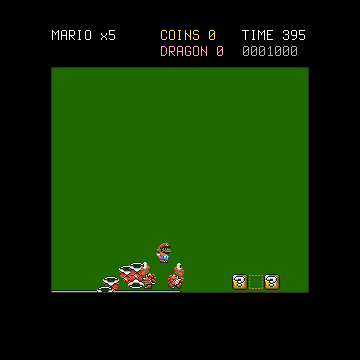
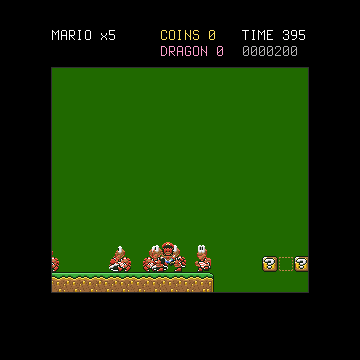
smw: sprites as SPRITES zones with BOXES, zspr and bmlib hits and tiles
Claude-Session: https://claude.ai/code/session_01819Cst5YoYQmWbqZtMgsvj

Changed region(s): [[0.1222, 0.6722, 0.6111, 0.825], [0.6417, 0.7028, 0.8556, 0.825], [0.7333, 0.1222, 0.7944, 0.1528]]

diff --git a/carts/smw/build/build.py b/carts/smw/build/build.py
@@ -7,6 +7,8 @@ Defaults: carts/smw/extracted and build/smw. SMW_START=x,y starts Mario elsewher
 flags, joins physics.lua and game.lua into main.lua and calls mkbm.py for the .b16 and the
 .bme. The output holds assets from the player's ROM: it stays on the player's machine."""
 import json, os, subprocess, sys
+sys.path.insert(0, os.path.dirname(os.path.abspath(__file__)))
+from sprites import pack_zones
 ROOT = os.path.dirname(os.path.dirname(os.path.dirname(os.path.dirname(os.path.abspath(__file__)))))
 
 
@@ -30,81 +32,6 @@ def backdrop(ex):
     c = Counter(im.getpixel((x, y)) for x in range(0, 256, 2) for y in range(40, 120, 2))
     r, g, b = c.most_common(1)[0][0]
     return (r << 16) | (g << 8) | b
-
-
-def pack_poses(ex, tiles_png, out_png, restyle=None):
-    """Appends Mario's poses (scripts/smw_sprites.py) under the tile cells, 32x32 each, facing right.
-    Returns the Lua table POSES = {[pose] = {sx, sy, w, h, ox, oy}} (ox, oy from Mario's x, y)."""
-    from PIL import Image
-    sheet = Image.open(tiles_png).convert("RGBA")
-    meta = json.load(open(ex + "/mario/poses.json"))
-    ids = sorted({m["pose"] for m in meta.values()})
-    en_meta = json.load(open(ex + "/enemies/pics.json")) if os.path.exists(ex + "/enemies/pics.json") else {}
-    en_names = sorted(k for k, v in en_meta.items() if v["w"] <= 40 and v["h"] <= 40 and v["id"] == 5)
-    tape_json = ex + "/goal/goal.json"
-    it_meta = json.load(open(ex + "/items.json")) if os.path.exists(ex + "/items.json") else {}
-    it_names = sorted(k for k in it_meta if k.startswith("126_"))      # the egg and Yoshi of the 0x126 block
-    rows = (len(ids) + 3) // 4 + (len(en_names) + 3) // 4 + (1 if os.path.exists(tape_json) else 0) + (len(it_names) + 3) // 4
-    big = Image.new("RGBA", (sheet.width, sheet.height + rows * 32), (0, 0, 0, 0))
-    big.paste(sheet, (0, 0))
-    lines = []
-    for i, pose in enumerate(ids):
-        m = meta.get("%02X_1" % pose)
-        mirror = m is None
-        if mirror:
-            m = meta["%02X_0" % pose]
-        im = Image.open(ex + "/mario/" + m["file"]).convert("RGBA")
-        ox = m["ox"]
-        if mirror:
-            im = im.transpose(Image.FLIP_LEFT_RIGHT)
-            ox = 16 - m["ox"] - m["w"]
-        if restyle:
-            im = restyle(im)
-        sx, sy = (i % 4) * 32, sheet.height + (i // 4) * 32
-        big.paste(im, (sx, sy))
-        lines.append("  [%d] = { %d, %d, %d, %d, %d, %d }," % (pose, sx, sy, m["w"], m["h"], ox, m["oy"]))
-    base_row = (len(ids) + 3) // 4
-    en_lines = []
-    for i, name in enumerate(en_names):
-        m = en_meta[name]
-        im = Image.open(ex + "/enemies/" + m["file"]).convert("RGBA")
-        if restyle:
-            im = restyle(im)
-        sx, sy = (i % 4) * 32, sheet.height + (base_row + i // 4) * 32
-        big.paste(im, (sx, sy))
-        en_lines.append("  ['%s'] = { %d, %d, %d, %d, %d, %d }," % (name, sx, sy, m["w"], m["h"], m["ox"], m["oy"]))
-    tape_lua = "local TAPE = nil\n"
-    if os.path.exists(tape_json):
-        t = json.load(open(tape_json))
-        im = Image.open(ex + "/goal/tape.png").convert("RGBA")
-        if restyle:
-            im = restyle(im)
-        sx, sy = 0, sheet.height + (base_row + (len(en_names) + 3) // 4) * 32
-        big.paste(im, (sx, sy))
-        tape_lua = "local TAPE = { %d, %d, %d, %d, %d, %d, %d }   -- sx, sy, w, h, ox, oy, level x\n" % (
-            sx, sy, t["w"], t["h"], t["ox"], t["oy"], t["x"])
-    it_lines = []
-    it_row = base_row + (len(en_names) + 3) // 4 + (1 if os.path.exists(tape_json) else 0)
-    for i, name in enumerate(it_names):
-        m = it_meta[name]
-        im = Image.open(ex + "/item_%s.png" % name).convert("RGBA")
-        if restyle:
-            im = restyle(im)
-        sx, sy = (i % 4) * 32, sheet.height + (it_row + i // 4) * 32
-        big.paste(im, (sx, sy))
-        it_lines.append("  ['%s'] = { %d, %d, %d, %d, %d, %d }," % (name, sx, sy, m["w"], m["h"], m["ox"], m["oy"]))
-    spawns = json.load(open(ex + "/spawns.json")) if os.path.exists(ex + "/spawns.json") else []
-    seen, sp = set(), []
-    for s in spawns:
-        if s["id"] == 5 and (s["x"], s["y"]) not in seen:
-            seen.add((s["x"], s["y"]))
-            sp.append("  { %d, %d, %d, %d }," % (s["x"], s["y"], s["face"], 1 if s["status"] == 9 else 0))
-    big.save(out_png)
-    return ("local POSES = {\n" + "\n".join(lines) + "\n}\n"
-            "local ENEMY = {\n" + "\n".join(en_lines) + "\n}\n"
-            + tape_lua +
-            "local ITEM = {\n" + "\n".join(it_lines) + "\n}\n"
-            "local KOOPAS = {   -- x, y, face (1 left, 0 right), starts as a shell\n" + "\n".join(sp) + "\n}\n")
 
 
 def block_data(defs, level):
@@ -144,13 +71,13 @@ def main():
         open(out + "/" + name, "w").write("\n".join(",".join(map(str, r)) for r in rows) + "\n")
     open(out + "/flags.csv", "w").write("%d=1\n%d=2\n" % (col, col + 1))
     sheet_png = out + "/sheet.png"
-    poses_lua = pack_poses(ex, ex + "/sheet.png", sheet_png)
+    poses_lua = pack_zones(ex, ex + "/sheet.png", sheet_png, out + "/sprites.txt")
     lua = poses_lua + block_data(defs, level) + open(ROOT + "/carts/smw/src/physics.lua").read() + "\n" + open(ROOT + "/carts/smw/src/game.lua").read()
     lua = lua.replace("local backdrop = 0xFF0000", "local backdrop = 0x%06X" % backdrop(ex))
     if os.environ.get("SMW_START"):         # a test start, "x,y": the shots of a block or an enemy without the walk
         lua = lua.replace("local START_X, START_Y = 16, 352", "local START_X, START_Y = " + os.environ["SMW_START"])
     open(out + "/main.lua", "w").write(lua)
-    base = [sys.executable, ROOT + "/scripts/mkbm.py", "--lua", out + "/main.lua", "--sheet", sheet_png,
+    base = [sys.executable, ROOT + "/scripts/mkbm.py", "--lua", out + "/main.lua", "--sheet", sheet_png, "--sprites", out + "/sprites.txt",
             "--map", out + "/map_main.csv", "--map", "col=" + out + "/map_col.csv", "--flags", out + "/flags.csv",
             "--info", ROOT + "/carts/smw/bm.info", "--targets", "rgb30", "--input", "pad"]
     subprocess.run(base + ["-o", out + "/smw.b16", "--b16"], check=True)

diff --git a/carts/smw/build/sprites.py b/carts/smw/build/sprites.py
@@ -1,0 +1,96 @@
+"""The sprites of the Super Mario World cartridge as bm SPRITES zones with BOXES.
+
+pack_zones() puts the pictures captured from the player's ROM (scripts/smw_sprites.py, smw_enemies.py,
+smw_items.py, smw_goal.py) under the tile cells of the sheet, one named zone per animation: the frames
+side by side as the suite wants them (zspr, zboxes, bm Pixel). It writes the zones file for
+mkbm.py --sprites and returns the Lua text with the anchors and the places of the Koopas.
+
+A zone is a rectangle; the game draws it with zspr(name, x, y, frame, flip) where (x, y) is the
+rectangle's corner. The suite has no anchors, so each zone gets the offset ZA[name] = {dx, dy}: draw at
+(sprite x + dx, sprite y + dy). The picture sits inside its rectangle so that a mirrored zone is mirrored
+about the sprite (Mario's rectangle is 32 wide with his 16-pixel body in the middle).
+
+Boxes (kind frame x y w h, from the rectangle's corner): Mario has hurt (his body), box 3 (his
+feet: he stomps with them), box 4 (his body, to kick a shell). A Koopa has hurt (its head: it can be
+stomped there) and hit (its body); a sliding shell has both."""
+import json, os
+
+MARIO = [("mario_stand", [0x00]), ("mario_walk", [0x00, 0x01]), ("mario_look", [0x03]), ("mario_prun", [0x07, 0x08]),
+         ("mario_jump", [0x0B]), ("mario_pjump", [0x0C]), ("mario_skid", [0x0D]), ("mario_fall", [0x24]),
+         ("mario_duck", [0x3C]), ("mario_spin", [0x25, 0x00, 0x0F, 0x00]), ("mario_dead", [0x3E])]
+KOOPA = [("koopa_l", ["05_8_42ad5a82", "05_8_04c81fb9"]), ("koopa_r", ["05_8_2f5730ba", "05_8_c999e5e3"]),
+         ("koopa_turn", ["05_8_5225aa56"]), ("shell", ["05_9_d229f1b8"]), ("shell_slide", ["05_9_d229f1b8"])]
+EGG = ["126_2C_79cad8", "126_2C_c7a607", "126_2C_1c9ca6"]
+YOSHI = ["126_35_1c9ca6", "126_35_017398", "126_35_d3ea17", "126_35_0e92a7"]
+
+
+def pack_zones(ex, tiles_png, out_png, out_txt, restyle=None):
+    from PIL import Image
+    sheet = Image.open(tiles_png).convert("RGBA")
+    zones = []          # name, w, h, [images with their place in the rectangle], anchor, boxes
+
+    meta = json.load(open(ex + "/mario/poses.json"))
+    for name, poses in MARIO:
+        frames = []
+        for pose in poses:
+            m = meta.get("%02X_1" % pose)
+            mirror = m is None
+            if mirror:
+                m = meta["%02X_0" % pose]
+            im = Image.open(ex + "/mario/" + m["file"]).convert("RGBA")
+            ox = m["ox"]
+            if mirror:
+                im = im.transpose(Image.FLIP_LEFT_RIGHT)
+                ox = 16 - m["ox"] - m["w"]
+            frames.append((im, ox + 8, m["oy"] + 8))
+        zones.append((name, 32, 48, frames, (-8, -8),
+                      ["hurt * 10 24 12 16", "box 3 * 10 36 12 4", "box 4 * 10 24 12 16"]))
+
+    en = json.load(open(ex + "/enemies/pics.json"))
+    for name, pics in KOOPA:
+        frames = [(Image.open(ex + "/enemies/" + en[p]["file"]).convert("RGBA"), en[p]["ox"], en[p]["oy"] + 16) for p in pics]
+        if name == "shell":
+            boxes = ["hurt * 0 16 16 16"]
+        elif name == "shell_slide":
+            boxes = ["hurt * 0 16 16 16", "hit * 0 16 16 16"]
+        else:
+            boxes = ["hurt * 0 16 16 10", "hit * 0 16 16 16"]
+        zones.append((name, 16, 32, frames, (0, -16), boxes))
+
+    items = json.load(open(ex + "/items.json"))
+    for name, pics in (("egg", EGG), ("yoshi", YOSHI)):
+        frames = [(Image.open(ex + "/item_%s.png" % p).convert("RGBA"), items[p]["ox"], items[p]["oy"]) for p in pics]
+        zones.append((name, 32, 32, frames, (0, 0), []))
+
+    tape = json.load(open(ex + "/goal/goal.json"))
+    zones.append(("tape", tape["w"], tape["h"], [(Image.open(ex + "/goal/tape.png").convert("RGBA"), 0, 0)],
+                  (tape["ox"], tape["oy"]), []))
+
+    height = sheet.height + sum(z[2] for z in zones)
+    big = Image.new("RGBA", (sheet.width, height), (0, 0, 0, 0))
+    big.paste(sheet, (0, 0))
+    txt, anchors = [], []
+    y = sheet.height
+    for name, w, h, frames, anchor, boxes in zones:
+        assert w * len(frames) <= sheet.width, name
+        for i, (im, px, py) in enumerate(frames):
+            assert 0 <= px and px + im.width <= w and 0 <= py and py + im.height <= h, (name, px, py, im.size)
+            if restyle:
+                im = restyle(im)
+            big.paste(im, (i * w + px, y + py))
+        txt.append("%s 0 %d %d %d %d %d" % (name, y, w, h, len(frames), 8 if len(frames) > 1 else 1))
+        txt += ["  " + b for b in boxes]
+        anchors.append("  %s = { %d, %d }," % (name, anchor[0], anchor[1]))
+        y += h
+    big.save(out_png)
+    open(out_txt, "w").write("\n".join(txt) + "\n")
+
+    spawns = json.load(open(ex + "/spawns.json")) if os.path.exists(ex + "/spawns.json") else []
+    seen, sp = set(), []
+    for s in spawns:
+        if s["id"] == 5 and (s["x"], s["y"]) not in seen:
+            seen.add((s["x"], s["y"]))
+            sp.append("  { %d, %d, %d, %d }," % (s["x"], s["y"], s["face"], 1 if s["status"] == 9 else 0))
+    return ("local ZA = {   -- the corner of each zone from the sprite's x, y (the suite has no anchors)\n" + "\n".join(anchors) + "\n}\n"
+            "local TAPE_X = %d\n" % tape["x"] +
+            "local KOOPAS = {   -- x, y, face (1 left, 0 right), starts as a shell\n" + "\n".join(sp) + "\n}\n")

diff --git a/carts/smw/guide/build.py b/carts/smw/guide/build.py
@@ -140,11 +140,11 @@ def main():
     for name, rows in (("map_main.csv", main_rows), ("map_col.csv", col_rows)):
         open(out + "/" + name, "w").write("\n".join(",".join(map(str, r)) for r in rows) + "\n")
     open(out + "/flags.csv", "w").write("%d=1\n%d=2\n" % (col_n, col_n + 1))
-    poses_lua = real.pack_poses(ex, out + "/tiles.png", out + "/sheet.png", restyle=restyle)
+    poses_lua = real.pack_zones(ex, out + "/tiles.png", out + "/sheet.png", out + "/sprites.txt", restyle=restyle)
     lua = poses_lua + real.block_data(defs_new, level) + open(ROOT + "/carts/smw/src/physics.lua").read() + "\n" + open(ROOT + "/carts/smw/src/game.lua").read()
     lua = lua.replace("local backdrop = 0xFF0000", "local backdrop = 0x%06X" % real.backdrop(ex))
     open(out + "/main.lua", "w").write(lua)
-    base = [sys.executable, ROOT + "/scripts/mkbm.py", "--lua", out + "/main.lua", "--sheet", out + "/sheet.png",
+    base = [sys.executable, ROOT + "/scripts/mkbm.py", "--lua", out + "/main.lua", "--sheet", out + "/sheet.png", "--sprites", out + "/sprites.txt",
             "--map", out + "/map_main.csv", "--map", "col=" + out + "/map_col.csv", "--flags", out + "/flags.csv",
             "--info", ROOT + "/carts/smw/bm.info", "--title", "SMW Guide Edition", "--targets", "rgb30", "--input", "pad"]
     subprocess.run(base + ["-o", out + "/guide.b16", "--b16"], check=True)

diff --git a/docs/progress/smw.md b/docs/progress/smw.md
@@ -28,12 +28,20 @@ the finished cartridge stay on the user's machine and SD card.
 - `scripts/smw_items.py`: bumps a block kind and records the sprites that appear. 0x126 gives an egg
   (sprite 0x2C, 58 ticks) that hatches into Yoshi (0x35); 0x11A gives a growing vine (0x79).
 - `scripts/smw_solid.py`: tests every Map16 number for solidity from above, the side, and below.
+- `carts/smw/build/sprites.py`: puts the captured pictures under the tile cells as 19 named zones
+  (`mario_walk`, `koopa_l`, `shell_slide`, `egg`, `yoshi`, `tape`, ...) with their boxes. `bmres.py info`
+  lists them. Mario's boxes: `hurt` (body), kind 3 (feet, he stomps), kind 4 (body, he kicks). A Koopa:
+  `hurt` (head), `hit` (body). The Lua gets the offset of each zone from `ZA` (the suite has no anchors).
 - `carts/smw/src/physics.lua`: movement at 50 Hz ticks. `scripts/smw_physics_check.py`
   scores it against the traces in `bmhost`. First jump: error under 3 pixels.
 - `carts/smw/src/game.lua` and `carts/smw/build/build.py`: the playable level, 360x360 `.b16`
   and `.bme` for the RGB30. Output goes to `build/smw/` (ignored by git).
 
 ## Rules (do not break)
+
+- Keep the sprites as SPRITES zones with BOXES (`carts/smw/build/sprites.py`). Draw them with `zspr`, read
+  the boxes with `zboxes`, and decide hits with `lib.hits`. Do not draw by pixel coordinates in Lua.
+- Keep the map as layers with flags (1 solid, 2 platform): `main` is drawn, `col` is read by `lib.tiles`.
 
 - Keep the ROM, `*.sfc`, `*.smc`, and `carts/smw/{rom,extracted}/` out of git.
 - Do not upload the cartridge to the Market. Do not put Nintendo assets in the repository.
@@ -60,6 +68,9 @@ the finished cartridge stay on the user's machine and SD card.
 - Done: question blocks with coins (bump, used tile), coin pickup, coin counter.
 - Done: the egg block (the egg rises, cracks, Yoshi hatches), dragon coins (two blocks, 1000 points,
   a 1-up for five).
+- Mario's own collision stays in `physics.lua` (it matches the traces). The Koopas use `lib.move`;
+  the map uses `lib.tiles` and `lib.solid`.
+- Note: `mkbm.py` warns `require: not for a .b16` for `require "bmlib"`. The runtime has it.
 - Open: riding Yoshi (poses and eating), the vine of 0x11A (growth and climbing poses), big Mario,
   power-ups, the turn block breaking when Mario is big.
 - Done: the goal tape and the course clear banner, 5 lives, the clock, death (hop and fall), game over,
